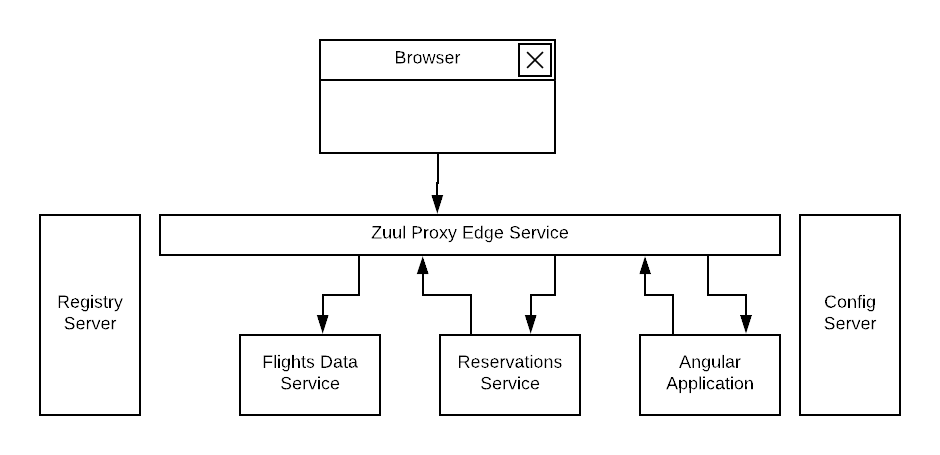
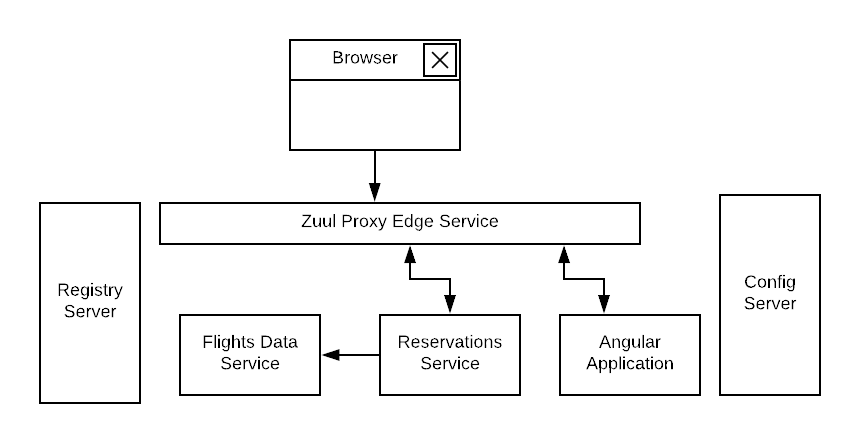
gen2

Changed region(s): [[0.0302, 0.088, 0.9674, 0.9391], [0.1209, 0.8804, 0.1814, 0.9097]]

diff --git a/_site/Spring-Security-OAuth2-Gen2/index.html b/_site/Spring-Security-OAuth2-Gen2/index.html
@@ -1,0 +1,161 @@
+<!DOCTYPE html>
+<html>
+  <head>
+    <title>Spring Security OAuth2 Second Generation – Haytham Mohamed – Advisory Solutions Architect @Pivotal</title>
+
+        <meta charset="utf-8" />
+    <meta content='text/html; charset=utf-8' http-equiv='Content-Type'>
+    <meta http-equiv='X-UA-Compatible' content='IE=edge'>
+    <meta name='viewport' content='width=device-width, initial-scale=1.0, maximum-scale=1.0'>
+
+    
+    <meta name="description" content="Spring framework provides a comprehensive and extensible support for authentication
+and authorization. Latest enhancements in Spring 5.x have made it simple
+to apply security standards such as OAuth2 to secure applications. In this blog I will
+demonstrate how to use OAuth2 second-generation support in Spring framework to
+secure a distributed microservices application.
+
+" />
+    <meta property="og:description" content="Spring framework provides a comprehensive and extensible support for authentication
+and authorization. Latest enhancements in Spring 5.x have made it simple
+to apply security standards such as OAuth2 to secure applications. In this blog I will
+demonstrate how to use OAuth2 second-generation support in Spring framework to
+secure a distributed microservices application.
+
+" />
+    
+    <meta name="author" content="Haytham Mohamed" />
+
+    
+    <meta property="og:title" content="Spring Security OAuth2 Second Generation" />
+    <meta property="twitter:title" content="Spring Security OAuth2 Second Generation" />
+    
+
+    <!--[if lt IE 9]>
+      <script src="http://html5shiv.googlecode.com/svn/trunk/html5.js"></script>
+    <![endif]-->
+
+    <link rel="stylesheet" type="text/css" href="/style.css" />
+    <link href="//netdna.bootstrapcdn.com/font-awesome/3.2.1/css/font-awesome.css" rel="stylesheet">
+    <link rel="alternate" type="application/rss+xml" title="Haytham Mohamed - Advisory Solutions Architect @Pivotal" href="/feed.xml" />
+    <link href='http://fonts.googleapis.com/css?family=Roboto:400,100,100italic,300,300italic,400italic,500,500italic,700,700italic,900,900italic' rel='stylesheet' type='text/css'>
+
+  </head>
+
+  <body>
+    
+    
+    <div class="intro-header">    
+      <div class="container">
+        <div class="post-heading">
+            <h1>Spring Security OAuth2 Second Generation</h1>
+            <!--
+            <span class="meta">Posted by <a href="/about"> Haytham Mohamed
+            </a> on November 11, 2018
+            -->
+            <span class="meta"> November 11, 2018
+            <a href="/"> { Return to Blog }</a>
+            </span>
+        </div>
+            
+      </div>
+    </div>
+    
+
+    <div id="main" role="main" class="postcontainer">
+      <article class="post">
+ <div class="space-extra-small">
+ </div>
+
+  <div class="entry">
+    <p>Spring framework provides a comprehensive and extensible support for authentication
+and authorization. Latest enhancements in Spring 5.x have made it simple
+to apply security standards such as OAuth2 to secure applications. In this blog I will
+demonstrate how to use OAuth2 second-generation support in Spring framework to
+secure a distributed microservices application.</p>
+
+<h2 id="architecture">Architecture</h2>
+<hr />
+
+<p>A simple “Flight Agency” demo application will be used in this
+blog to illustrate using the latest Spring 5.x security features of OAuth2 to
+support microservices authentication and authorization.</p>
+
+<p>The architecture of the distributed demo application consists of a
+front-end web application and a couple of backend microservices. All modules of
+the application are implemented using Spring Boot to take advantage of the
+auto-configuration and opinionated features. As illustrated in the diagram below,
+The system consists of</p>
+
+<p><img src="../images/spring-oauth2-gen2/RA-OAuth2-2.png" width="50%" height="50%" title="architecture" /></p>
+
+<ul>
+  <li>
+    <p>Front-end Web application implemented using Tymeleaf. The application allows
+a user to search for a flight from an origin to a destination within
+certain dates, select and book the itinerary flights (called agency-web).</p>
+  </li>
+  <li>
+    <p>A back-end service to retrieve available itinerary flights (called flights-service).</p>
+  </li>
+  <li>
+    <p>A back-end service to perform reservations and book the itinerary (called reservations-service)</p>
+  </li>
+</ul>
+
+<p>Additionally, the application demo uses common services implemented with Spring
+cloud (Spring Boot based), such as:</p>
+
+<ul>
+  <li>
+    <p>A configuration server to externalize and centralize microservices’ configurations.</p>
+  </li>
+  <li>
+    <p>A registration and discovery service using Spring Cloud Eureka implementation to
+help service to register and discover each other.</p>
+  </li>
+  <li>
+    <p>A Spring Cloud Gateway, as an edge proxy in front of the two backend services
+of flights and reservations.</p>
+  </li>
+</ul>
+
+<h2 id="web-application---oauth2-client">Web Application - OAuth2 Client</h2>
+<hr />
+
+  </div>
+
+  
+</article>
+
+
+    </div>
+
+    <div class="wrapper-footer">
+      <div class="container">
+        <footer class="footer">
+            <div class="svg-icon">
+          
+<a href="mailto:hmohamed@pivotal.io"><i class="icon-envelope icon-2x"></i></a>
+
+
+<a href="https://github.com/haybu"><i class="icon-github icon-2x"></i></a>
+
+<a href="https://www.linkedin.com/in/haytham-mohamed-6636408"><i class="icon-linkedin-sign icon-2x"></i></a>
+
+
+<a href="https://www.twitter.com/haymahmoh"><i class="icon-twitter icon-2x"></i></a>
+
+
+
+
+            </div>
+        </footer>
+      </div>
+    </div>
+
+
+    
+
+  </body>
+</html>

diff --git a/_site/Spring-Security-OAuth2-Gen1/index.html b/_site/Spring-Security-OAuth2-Gen1/index.html
@@ -11,7 +11,7 @@
     
     <meta name="description" content="This article describes how to secure an application using Spring security OAuth2
 generation-one. The sample consists of an Angular front-end application
-and a couple of Spring boot based backend services. Both frontend application
+and a couple of Spring boot based backend services. Both front-end application
 and backend services are behind an edge proxy that assumes the responsibility
 to authenticate and authorize a user. Spring Cloud common services such as
 spring cloud configuration and spring cloud Eureka registry services are used.
@@ -19,7 +19,7 @@ spring cloud configuration and spring cloud Eureka registry services are used.
 " />
     <meta property="og:description" content="This article describes how to secure an application using Spring security OAuth2
 generation-one. The sample consists of an Angular front-end application
-and a couple of Spring boot based backend services. Both frontend application
+and a couple of Spring boot based backend services. Both front-end application
 and backend services are behind an edge proxy that assumes the responsibility
 to authenticate and authorize a user. Spring Cloud common services such as
 spring cloud configuration and spring cloud Eureka registry services are used.
@@ -72,7 +72,7 @@ spring cloud configuration and spring cloud Eureka registry services are used.
   <div class="entry">
     <p>This article describes how to secure an application using Spring security OAuth2
 generation-one. The sample consists of an Angular front-end application
-and a couple of Spring boot based backend services. Both frontend application
+and a couple of Spring boot based backend services. Both front-end application
 and backend services are behind an edge proxy that assumes the responsibility
 to authenticate and authorize a user. Spring Cloud common services such as
 spring cloud configuration and spring cloud Eureka registry services are used.</p>
@@ -83,19 +83,21 @@ spring cloud configuration and spring cloud Eureka registry services are used.</
 <p><img src="../images/spring-oauth2-gen1/RA-OAuth2-1.png" width="50%" height="50%" title="architecture" /></p>
 
 <p>All components are behind an edge proxy service. Spring Cloud Zuul is used as
-the edge service. A user launch the application using a route to the landing
+the edge service. A user launches the application using a route to a landing
 index page of the front-end UI application. The front-end UI is implemented as
 an Angular-based separate project that compiled and packaged into a spring-boot
 application. The front-end UI application reaches out to a backend reservations
-service through the edge proxy. The reservations services in turn seeks flights
-information by routing via the edge proxy to another backend flights data service.</p>
+service through an edge proxy. The reservations service in turn seeks flights
+information by routing via the edge proxy to another backend flights data service.
+While the detail implementation of the business logic is not important, the sample
+illustrates how to use OAuth2 (Authorization grant) method to secure the application.</p>
 
 <p>This architecture enables us to have the following:</p>
 
-<p>1- Communications between all modules to go through an edge-service to centrally
+<p>1- Communications between all modules to go through an edge-proxy service to centrally
 manage security, logging and other common concerns</p>
 
-<p>2- Use of authentication token relay between edge proxy service and front-end UI application</p>
+<p>2- Use of authentication token relay between edge-proxy service and front-end UI application</p>
 
 <p>3- Use of Spring Feign to communicate between the two backend services</p>
 
@@ -105,11 +107,11 @@ to a downstream backend Flights data service.</p>
 <h2 id="services-configuration">Services Configuration</h2>
 <hr />
 
-<p>Spring Cloud Config Server is used externalize all modules configurations.
+<p>Spring Cloud Config Server is used to externalize configurations of the different modules in the application.
 For easy launching, the configuration server launches with a native profile to
-leverage a local backend storage to keep the “yml” properties files.</p>
+leverage a local backend storage to keep the “yml” properties files (please change any hard-coded path).</p>
 
-<p>With the appropriate dependencies, you can create a configuration server as
+<p>With appropriate dependencies, you can create a configuration server as
 a regular spring boot application by enabling the server with “@EnableConfigServer”
 annotation.</p>
 

diff --git a/_site/index.html b/_site/index.html
@@ -77,12 +77,29 @@
   
     <article class="post">
 
+      <h1><a href="/Spring-Security-OAuth2-Gen2/">Spring Security OAuth2 Second Generation</a></h1>
+
+      <div class="entry">
+        <p>Spring framework provides a comprehensive and extensible support for authentication
+and authorization. Latest enhancements in Spring 5.x have made it simple
+to apply security standards such as OAuth2 to secure applications. In this blog I will
+demonstrate how to use OAuth2 second-generation support in Spring framework to
+secure a distributed microservices application.</p>
+
+
+      </div>
+
+      <a href="/Spring-Security-OAuth2-Gen2/" class="button button-primary">Read More</a>
+    </article>
+  
+    <article class="post">
+
       <h1><a href="/Spring-Security-OAuth2-Gen1/">Spring Security OAuth2 First Generation</a></h1>
 
       <div class="entry">
         <p>This article describes how to secure an application using Spring security OAuth2
 generation-one. The sample consists of an Angular front-end application
-and a couple of Spring boot based backend services. Both frontend application
+and a couple of Spring boot based backend services. Both front-end application
 and backend services are behind an edge proxy that assumes the responsibility
 to authenticate and authorize a user. Spring Cloud common services such as
 spring cloud configuration and spring cloud Eureka registry services are used.</p>

diff --git a/_posts/2018-11-11-Spring-Security-OAuth2-Gen2.md b/_posts/2018-11-11-Spring-Security-OAuth2-Gen2.md
@@ -1,0 +1,48 @@
+---
+layout: post
+title: Spring Security OAuth2 Second Generation
+author: Haytham Mohamed
+---
+
+Spring framework provides a comprehensive and extensible support for authentication
+and authorization. Latest enhancements in Spring 5.x have made it simple
+to apply security standards such as OAuth2 to secure applications. In this blog I will
+demonstrate how to use OAuth2 second-generation support in Spring framework to
+secure a distributed microservices application.
+
+## Architecture
+----
+
+A simple "Flight Agency" demo application will be used in this
+blog to illustrate using the latest Spring 5.x security features of OAuth2 to
+support microservices authentication and authorization.
+
+The architecture of the distributed demo application consists of a
+front-end web application and a couple of backend microservices. All modules of
+the application are implemented using Spring Boot to take advantage of the
+auto-configuration and opinionated features. As illustrated in the diagram below,
+The system consists of
+
+<img src="../images/spring-oauth2-gen2/RA-OAuth2-2.png" width="50%" height="50%" title="architecture">
+
+* Front-end Web application implemented using Tymeleaf. The application allows
+a user to search for a flight from an origin to a destination within
+certain dates, select and book the itinerary flights (called agency-web).
+
+* A back-end service to retrieve available itinerary flights (called flights-service).
+
+* A back-end service to perform reservations and book the itinerary (called reservations-service)
+
+Additionally, the application demo uses common services implemented with Spring
+cloud (Spring Boot based), such as:
+
+* A configuration server to externalize and centralize microservices' configurations.
+
+* A registration and discovery service using Spring Cloud Eureka implementation to
+help service to register and discover each other.
+
+* A Spring Cloud Gateway, as an edge proxy in front of the two backend services
+of flights and reservations.
+
+## Web Application - OAuth2 Client
+----
